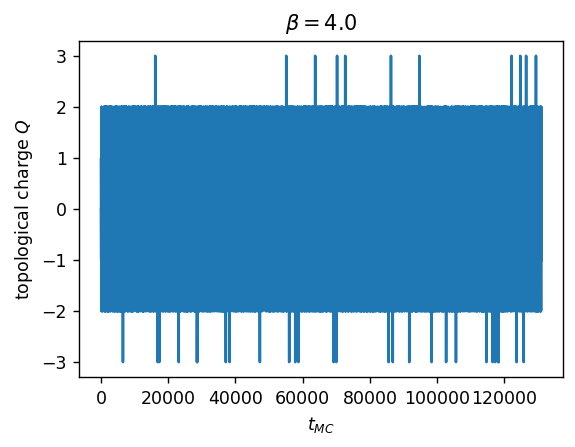
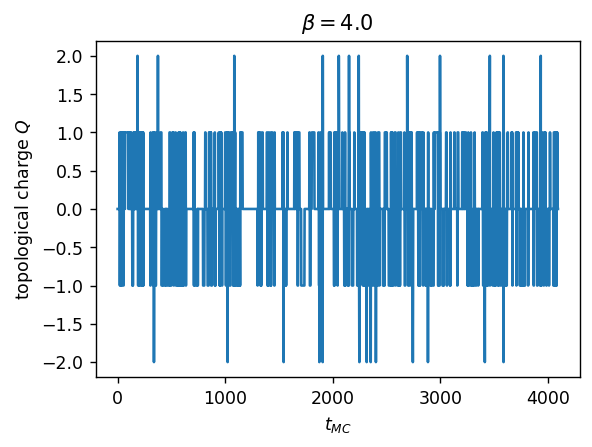
Added personal notes on NF

diff --git a/scripts/mixture.py b/scripts/mixture.py
@@ -1,0 +1,54 @@
+from neumc.utils import grab
+import torch
+import numpy as np
+import neumc
+import matplotlib.pyplot as plt
+from neumc.utils.mixture import DataLoader, TemperedMixture
+from scipy.stats import linregress
+from neumc.mc import mixture_metropolize
+import neumc.physics.u1 as u1
+import sys, os
+
+sys.path.append(os.path.join(os.path.dirname(__file__), "..", "notebooks"))
+
+beta = 4
+torch_device = 'cpu'
+L = 8
+u1_action = u1.U1GaugeAction(beta)
+path = r"C:\Users\franc\OneDrive\Desktop\Data\L8_8x8_24_mix"
+
+dataloader = DataLoader(path_to_folder=path, beta_min=1, beta_max=beta, step=1, samples_size=2**12, L=L)
+data = dataloader.load_data()
+models = dataloader.load_models()
+
+mixture = TemperedMixture(dataloader=dataloader, changes=10000, device = torch_device, L = L)
+all_samples = mixture.sampler(power = 1.5)
+mix, log_q = mixture.mix_builder(models = models, device = torch_device)
+
+lp_mix = -neumc.utils.batch_function.batch_action(mixture.new_samples, batch_size=1024, action=u1_action, device=torch_device)
+u_p, s_p, s_q, accepted = mixture_metropolize(mixture = mix, log_q= log_q, log_p= lp_mix, samples_q = mixture.new_samples)
+
+print("Accept rate is:", float(accepted.count_nonzero()) / len(accepted) * 100, "%")
+
+fit_2x1 = linregress(s_q, s_p)
+fig, ax = plt.subplots(figsize=(8, 8))
+ax.set_aspect(1)
+ax.set_xlabel(r"$\log q$")
+ax.set_ylabel(r"$\log P$")
+lqs = np.linspace(s_q.min(), s_q.max(), 100)
+ax.scatter(s_q, s_p, s=5, alpha=0.25)
+ax.plot(lqs, lqs * fit_2x1.slope + fit_2x1.intercept, color="red", zorder=10)
+ax.text(0.15, 0.85, f"$\\log P = {fit_2x1.slope:.3}\\log q+{fit_2x1.intercept:.3f}$", transform=ax.transAxes,)
+
+plt.savefig(f"out_u1/S{beta}.png", bbox_inches="tight")
+
+Q = grab(u1.topo_charge(u_p))  #!here plaquettes are computed internally: topo_charge calls compute_u1_plaq;
+
+plt.figure(figsize=(5, 3.5), dpi=125)
+np.savetxt(f"out_u1/Q{beta}.txt", Q)
+plt.plot(Q)
+plt.title(r"$\beta = $" + f"{beta}")
+plt.xlabel(r"$t_{MC}$")
+plt.ylabel(r"topological charge $Q$")
+plt.savefig(f"out_u1/Q{beta}.png", bbox_inches="tight")
+plt.close()

diff --git a/scripts/u1_rs.py b/scripts/u1_rs.py
@@ -185,9 +185,10 @@ print(f"Latest checkpoint saved to {CHECKPOINT_PATH}")
 print(f"File size: {os.path.getsize(CHECKPOINT_PATH) / (1024**2):.2f} MB")
 
 # Sampling: #!Note that u_2x1 are NOT the plaquettes, but the link variables (angles);
-u_2x1, lq_2x1 = neumc.nf.flow.sample(n_samples=2**17, batch_size=2**12, prior=prior, layers=layers)  # shape of u_2x1: (n_samples, 2, L, L);
+u_2x1, lq_2x1 = neumc.nf.flow.sample(n_samples=2**12, batch_size=2**10, prior=prior, layers=layers)  # shape of u_2x1: (n_samples, 2, L, L);
 lp_2x1 = -neumc.utils.batch_function.batch_action(u_2x1, batch_size=1024, action=u1_action, device=torch_device)
 ess_2x1 = neumc.utils.ess(lp_2x1, lq_2x1)
+
 print(f"ESS: {ess_2x1}")
 
 fit_2x1 = linregress(lq_2x1, lp_2x1)
@@ -254,12 +255,12 @@ torch.save(data_to_save, f'out_u1/data_{beta}.pt')
 
 do_mix = True
 if do_mix and beta > 1:
-    dataloader = DataLoader(path_to_folder="out_u1", beta_min=1, beta_max=beta, step=1, samples_size=2**17, L=L)
+    dataloader = DataLoader(path_to_folder="out_u1", beta_min=1, beta_max=beta, step=1, samples_size=2**12, L=L)
     data = dataloader.load_data()
     models = dataloader.load_models()
 
-    mixture = TemperedMixture(dataloader=dataloader, changes=10000, device = torch_device, L = L)
-    all_samples = mixture.sampler(power = 2)
+    mixture = TemperedMixture(dataloader=dataloader, changes=100, device = torch_device, L = L)
+    all_samples = mixture.sampler(power = 1.5)
     mix, log_q = mixture.mix_builder(models = models, device = torch_device)
     lp_mix = -neumc.utils.batch_function.batch_action(mixture.new_samples, batch_size=1024, action=u1_action, device=torch_device)
 

diff --git a/neumc/src/neumc/utils/mixture.py b/neumc/src/neumc/utils/mixture.py
@@ -3,7 +3,6 @@ import numpy as np
 import torch
 from neumc.nf.flow_abc import TransformationSequence
 from torch.distributions import Categorical
-from typing import override
 from neumc.utils import grab
 from neumc.nf.u1_model_asm import assemble_model_from_dict
 
@@ -20,7 +19,7 @@ must act on two LxL matrices at a time.
 class Mixture:
     def __init__(self):
         pass
-    @override
+
     def mixture(self, *args, **kwargs):
         pass
     
@@ -101,8 +100,8 @@ class TemperedMixture(Mixture):
         self.new_samples = dataloader.samples[0].clone()
 
     def weights_setter(self, *, power: float = 1.5):
-        weights = [k**power for k in range(self.beta_min, self.beta_max + 1)]
-        weights = torch.tensor(weights) / np.sum(weights)
+        weights = torch.tensor([float(k)**power for k in self.betas], device=self.device)
+        weights = weights / torch.sum(weights)
         dist = Categorical(weights) #building distribution;
         return weights, dist
 
@@ -148,7 +147,7 @@ class TemperedMixture(Mixture):
                 weight = self.weights[index]
                 self.mix += weight * torch.exp(prior.log_prob(z) + log_J)
 
-            last_idx = len(self.betas) - 1
+            last_idx = - 1
             z, log_J = models[last_idx].reverse(self.new_samples)
             self.log_q = prior.log_prob(z) + log_J
 

diff --git a/_notes/nf_u1.md b/_notes/nf_u1.md
@@ -1,23 +1,130 @@
-# Normalizing Flows for $U(1)$ LGT
-
 Here's a list of observations and facts useful for my personal understanding of Normalizing Flows for Lattice Gauge Theories (LGT). 
 
-- [Normalizing Flows for $U(1)$ LGT](#normalizing-flows-for-u1-lgt)
-  - [How is the training done?](#how-is-the-training-done)
-  - [How many samples from prior distribution are needed?](#how-many-samples-from-prior-distribution-are-needed)
-  - [How the masking works?](#how-the-masking-works)
+- [1. How is the training done?](#1-how-is-the-training-done)
+  - [1.1. In what sense the NIS is different from sampling with $p$?](#11-in-what-sense-the-nis-is-different-from-sampling-with-p)
+- [2. How does the masking work?](#2-how-does-the-masking-work)
+  - [2.1. A simple model](#21-a-simple-model)
+  - [2.2. Coupling layers in LGT](#22-coupling-layers-in-lgt)
+  - [2.3. The importance of masking and of equivariant layers](#23-the-importance-of-masking-and-of-equivariant-layers)
+    - [2.3.1. Equivariant layers](#231-equivariant-layers)
+    - [2.3.2. The coupling functions](#232-the-coupling-functions)
+  - [2.4. How exactly the CNN acts on a give configuration?](#24-how-exactly-the-cnn-acts-on-a-give-configuration)
+    - [2.4.1. How the hidden channels do work?](#241-how-the-hidden-channels-do-work)
 
-## How is the training done?
-The optimal parameters are found by minimizing the D-KL (forward or reverse) loss:
-$$
+# 1. How is the training done?
+The optimal parameters are found by minimizing the $D_{KL}$ (forward or reverse) loss: $$
 \begin{equation}
 \begin{align*}
-        \text{reverse:} \ \ \ D_{KL}(q|p) &= \int_{\Omega} q(\phi|\theta) \big( \log q(\phi|\theta) - \log p(\phi) \big) \ d\phi \\
-        \text{forward:} \ \ \ D_{KL}(p|q) &= \int_{\Omega} q(\phi|\theta) \big( \log p(\phi) - \log q(\phi|\theta) \big) \ d\phi
+        \text{reverse:} \ \ \ D_{KL}(q|p) &= \int_{\Omega} q(\phi|\theta) \big( \log q(\phi|\theta) - \log p(\phi) \big) \ \mathcal{D}\phi \\
+        \text{forward:} \ \ \ D_{KL}(p|q) &= \int_{\Omega} p(\phi|\theta) \big( \log p(\phi) - \log q(\phi|\theta) \big) \ \mathcal{D}\phi
 \end{align*}
+\end{equation}$$ where $q(\phi | \theta)$ is the resulting distribtuion depending on the field $\phi$ and the parameters $\theta$ and $p(\phi) \propto e^{-S}$ is the target. 
+One important tecnique, known as Neural Importance Sampling, consists in reweighting the distribution: $$ \begin{equation}
+\begin{align*}
+\langle O \rangle_p  = \int_{\Omega} O(\phi) p(\phi) \ d\phi = \frac{\int_{\Omega} O(\phi) w(\phi) q(\phi|\theta) \ d\phi}{\int_{\Omega} w(\phi) q(\phi|\theta) \ d\phi}
+\end{align*}    
+\end{equation}$$ where the weights are defined as $w(\phi) = p(\phi)/q(\phi)$. In such a way the computation of $\langle O \rangle _p$ can be done knowing the weights and the flow distribution $q$.
+
+## 1.1. In what sense the NIS is different from sampling with $p$? 
+Using the reversed loss: $$ \begin{equation}
+\begin{align*}
+D_{KL}(q|p) = \mathbb{E}_q[\log q(\phi)] - \mathbb{E}_q [\log p(\phi)]         
+\end{align*}
+\end{equation}$$ all the mean values are computed respect to the distribution $q$ from which the samples $\phi$ are extracted and on which the integration (sum, in the discrete form) is performed. Therefore the target distribution is used only to evaluate its logarithm on the extracted sample.  
+
+# 2. How does the masking work? 
+In the case of LGT the masking is involved every time a coupling layer is reached, in particular each layer will have its mask which will divide the lattice into active, passive and frozen parts. 
+
+## 2.1. A simple model
+The affine coupling layer is the simplest model used for Normalizing Flows: in each such layers there's a map $f: z \in \mathbb{R}^n \longrightarrow \phi \in \mathbb{R}^n$, where the input variables $\textbf{z} = (z_1, z_2, \dots, z_n)^T$ are splitted in two equal-sized subsets $N_a$, $N_b$ (active and passive parts resp.) and then trasformed by $f$ according to: $$ \begin{equation}
+\mathbf{z} \xrightarrow{f} \mathbf{\phi} = 
+\begin{cases}
+    \phi_a = z_a \\
+    \phi_b = z_b s_b(z_a) + t_b(z_a)
+\end{cases}, \ \ a \in N_a \ \wedge \ b \in N_b
+\end{equation}$$ where the parameters $s_b$, $t_b$ are found by the neural network. Leaving the first $N_a$ variables unchanged produces a triangular Jacobian, therefore with tractable determinant. 
+To perform a more general mapping, more coupling layers can be stacked, alternating frozen and active parts. 
+Additionally, splitting the variables allows the inversion of the transformation: $$ \begin{equation}
+\mathbf{\phi} \xrightarrow{f^{-1}} \mathbf{z} = 
+\begin{cases}
+    z_a = \phi_a \\
+    z_b = [\phi_b - t_b(z_a)]/s_b(z_a)
+\end{cases},  \ \ a \in N_a \ \wedge \ b \in N_b
+\end{equation}$$ where, again, $\ N_a \cap N_b = \emptyset $.
+
+## 2.2. Coupling layers in LGT
+In the case of LGT, the lattice needs to be decomposed into active, passive and frozen components; as a consequence, given a bijective coupling function $\mathbf{h}$, the coupling layer transforms an initial configuration $\mathbf{\phi}$ as follows: $$ \begin{equation}
+  \begin{cases}
+    \phi'_{act} = \mathbf{h}(\phi_{act} | \mathbf{\Theta}(\phi_{frz})) \\
+    \phi'_{frz} = \phi_{frz} \\
+    \phi'_{pass} = \phi_{pass}
+  \end{cases}
+\end{equation}$$ where $\mathbf{\Theta}$, the conditioner, is used to calculate the parameters of the transformation, using the frozen configuration. The parameters in our case are returned by a Neural Network (CNN). 
+The Jacobian matrix of such a transformation is trivially diagonal.
+Tipically he coupling function acts pointwise: $$
+\mathbf{h}(\phi_1, \phi_2, \dots | \mathbf{\Theta}) = (h_1(\phi_1 | \Theta_1), \ h_2 (\phi_2 | \Theta_2), \ \dots)^T$$ 
+and very often all the $h_i$ are identical, the only difference is in the parameters $\Theta_i$ of the transformation. 
+
+## 2.3. The importance of masking and of equivariant layers
+As already said before, the masks are needed for the subdivsion into active, passive and frozen components. From a technical point of view, masks are generators, yielding a tuple containing at least one dictionary with `active`, `passive` and `frozen` keys. The corrisponding value (i.e. the mask) is a tensor consisting of only zeros and ones; therefore masking is done by multipling the configuration with the mask. Usually the masking pattern repeats itself after a certain number of steps (namely, after some coupling layers). 
+
+### 2.3.1. Equivariant layers
+
+To understand how to implement the masking in LGT, Gauge Equivariant Layers need to be introduced. The idea it's quite simple but effective: instead of learning the symmetries of the theory by training, it's more convenient to implement them in the layers themselves. This ensures that the input is consistently reflected in the output space by the Neural Network, being invariant under the same group $\mathcal{G}$ as the input. 
+In other words, being $f$ the map implemented by the NN, $r_i$ and $r_f$ two representation of the simmetry group $\mathcal{G}$, it must hold: 
+$$ \begin{equation}
+  \begin{align*}
+    f(g^{(r_i)} x) = g^{(r_f)} f(x) \ \ \ \forall g \in \mathcal{G}.
+  \end{align*}
 \end{equation}
-$$
-## How many samples from prior distribution are needed?
+$$ In the case of Lattice Gauge Theories the links $U_{\mu}$ transform as $U_{\mu}(x) \xrightarrow{\mathcal{G}} U'_{\mu}(x) = g(x + \hat{\mu}) \cdot U_{\mu} \cdot g^{-1}(x)$, therefore any traced loop is invariant under any transformation $g \in \mathcal{G}$.  
+Let's start considering the untraced loop $$ \begin{equation}
+  \begin{align*}
+      L(\mathbf{x}) = U_{\mu}(\mathbf{x}) S(\mathbf{x} + \hat{\mu}, \mathbf{x}) 
+  \end{align*}
+\end{equation}$$ where $S(\mathbf{x}, \mathbf{y})$ is a generic path that starts at $\mathbf{x}$ and ends in $\mathbf{y}$. In general this quantity is not gauge-invariant, except for the case of abelian gauge groups, therefore it transforms as $$ \begin{equation}
+  \begin{align*}
+    L(\mathbf{x}) \longrightarrow g(\mathbf{x})L(\mathbf{x})g^{\dag}(\mathbf{x})
+  \end{align*}
+\end{equation}$$ so it's needed a coupling function $h$ that satisfies the following equation $$\begin{equation}
+  \begin{align*}
+    h(g(\mathbf{x})L(\mathbf{x})g^{\dag}(\mathbf{x})) = g(\mathbf{x})h(L(\mathbf{x}))g^{\dag}(\mathbf{x})
+  \end{align*}
+\end{equation}$$ namely $h$ has to be transparent to the action of the group on its argument. 
+Suppose, now, to map the gauge link $U_{\mu}$ in a new updated field $U'_{\mu}$, the new closed loop will be $L' = U'_{\mu} S$ (as specified, we are changing only the link from $x$ to $x + \hat{\mu}$), therefore (the dependence from $x$ is omitted): $$\begin{equation}
+  \begin{align*}
+  L' = U'_{\mu} S  = h(U_{\mu}S) & \Longrightarrow U'_{\mu} = h(U_{\mu}S) S^{\dag} = h(L)S^{\dag}
+  \Longrightarrow U'_{\mu} = h(L)L^{\dag}U_{\mu}.
+  \end{align*}
+\end{equation} $$ In such a way the transformation of links variables can be performed acting on any path $L$ with the same starting and ending points of the links. This is implemented by a coupling layer, which will used part of the loops to calculate the parameters of the transformation; in particular the conditioner $\Theta$ will depend on the frozen links and some invariant combinations of them (tipically plaquettes). 
 
-## How the masking works? 
+In this case the lattice's subdivision is more involved than simple masks descrivbed preivously: there'll be a set of active links that are to be transformed by the layer; correpsonding to that, we will have a set of loops used to change them, according to (11). These will be the active loops; those loops cannot contain any other acitve links. Then there will be a set of loops containing an active link but not used to trasform it: these will be the passive links. Lastly there'll be the loops with no active links, the frozen ones, used in the conditioner and in $h$ to perform the mapping.
+Here's an example of links and loops masking: 
+ 
+<p align="center">
+  <img src="assets/masks.png" alt="alt text">
+  <br>
+  <em>U(1) masks, orange: active plaquettes, green: frozen plaquettes, purple: passive plaquettes. In blue are marked the active links. </em>
+</p>
 
+### 2.3.2. The coupling functions
+We have seen that the transformations of gauge links are done by transforming $L$ with a coupling function; the guage links are elements of the group $\mathcal{G}$, impling $L \in \mathcal{G}$. In the case of $U(1)$, the gauge links can be parametrized by an angle, therefore the coupling functions have to be a diffeomorphism of the circle on itself. In a such a way, the topology is preserved (diffeomorphism implies omeomorphism) and both the functions and their inverse are differentiable, property crucial for the gradient descent.
+Some examples of diffeomorphisms are:
+- NCP: non-compact projection
+- Mobius transformation
+- Rational splines
+  
+## 2.4. How exactly the CNN acts on a give configuration?
+We have seen previously that the Neural Networks are supposed to be used to find the optimal parameters in the conditioner in order to update the links and reproduce the target density. However it's still not completely clear how the Convolutional Neural Networks should be involved in this task.
+
+The underlying principle is that only the frozen plaquettes (or, more generally, Wilson loops) are required to optimize the parameters via the conditioner. Therefore, the CNN input can be structured as a tensor of $n$-tuples $(\cos \alpha, \sin \alpha)$, where $\alpha$ denotes the angle of the frozen plaquette. Consequently, the architecture will employ two input channels, ensuring that the kernel weights operate directly on the trigonometric components ($\cos \alpha$ and $\sin \alpha$) lying on each pixel (plaquette or loop). 
+
+Once found the parameters, the coupling function will be applied and the gauge links transformed according to (11). 
+
+### 2.4.1. How the hidden channels do work? 
+Since CNNs share weights across all sites to ensure translational invariance, the use of multiple kernels is particularly effective for specializing each filter in recognizing specific patterns. This is achieved through hidden channels, which define the number of kernels (and thus the number of feature maps) in each layer.
+
+**Note**: the CNN architecture is structured as follows:
+- input layer: where the raw data is fed into the network;
+- convolutional layers: generated by the application of the kernels; the output will have as many feature maps (channels) as there are kernels in the layer. Of course more convolutional layers can be stacked;
+- output layer: which produces the final result
